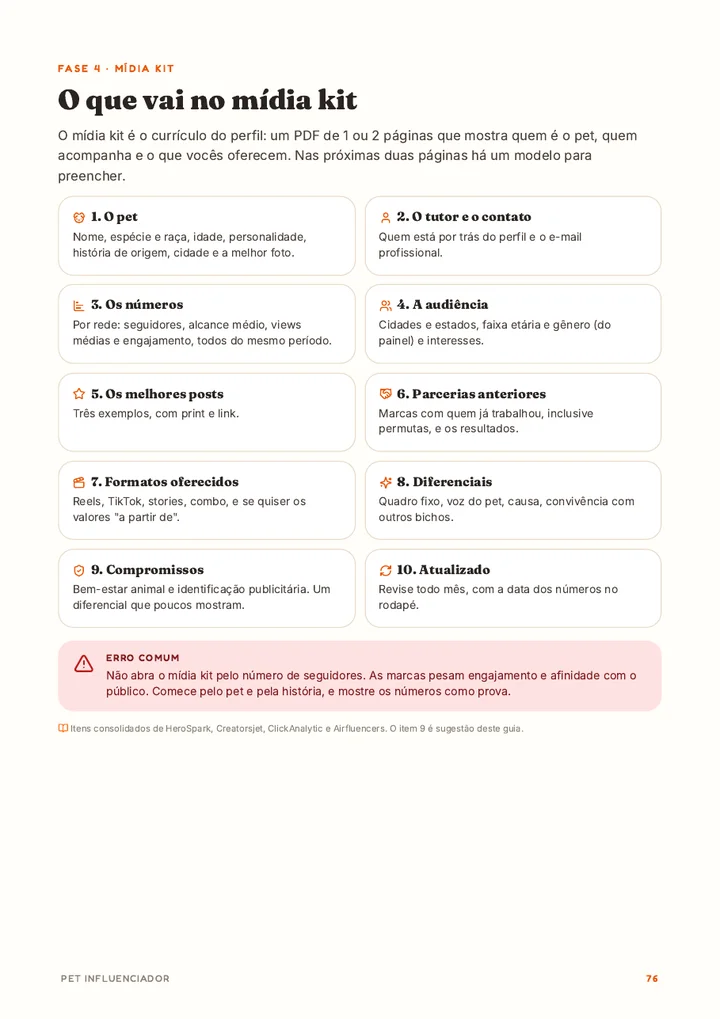
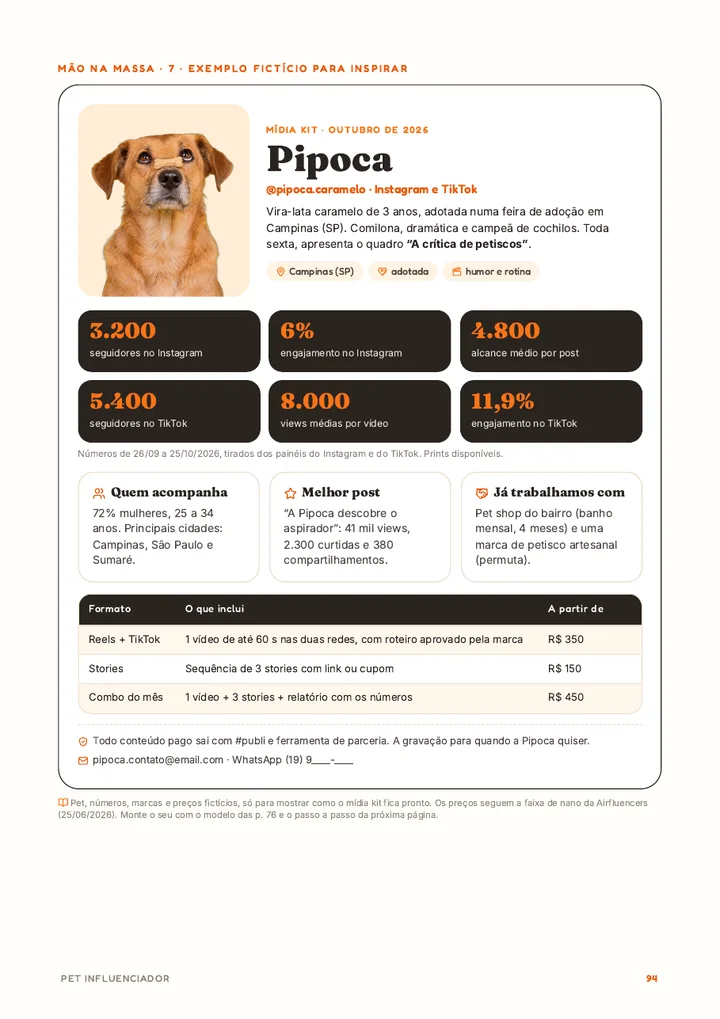
Pet Influenciador: 110 páginas e parte Mão na massa
Claude-Session: https://claude.ai/code/session_015DPV1uKuxt4KhrgCQWoJpN

Changed region(s): [[0.0611, 0.0608, 0.9167, 0.8214], [0.0611, 0.5172, 0.0917, 0.5476]]

diff --git a/src/lib/vendas/influenciador.ts b/src/lib/vendas/influenciador.ts
@@ -8,12 +8,12 @@ export const influenciador: PaginaVendas = {
       "O guia completo para transformar o perfil do seu cão ou gato num perfil profissional: 30 roteiros, 60 legendas, calendário de 2027, mídia kit, e-mails para marcas e as regras do CONAR. Com casos reais e os nichos além do humor.",
   },
   hero: {
-    eyebrow: "Guia completo · 97 páginas",
+    eyebrow: "Guia completo · 110 páginas",
     antes: "O seu pet já é uma estrela em casa. ",
     destaque: "Agora vamos montar o palco",
     depois: ".",
     lead: "O passo a passo completo para o perfil do seu cão ou gato ficar profissional, crescer com consistência e chegar até as marcas: da bio ao mídia kit, com roteiros, legendas e e-mails prontos.",
-    selos: ["Acesso imediato", "97 páginas", "Garantia de 7 dias"],
+    selos: ["Acesso imediato", "110 páginas", "Garantia de 7 dias"],
   },
   dores: {
     titulo: "Se você já pensou alguma destas coisas",
@@ -46,11 +46,12 @@ export const influenciador: PaginaVendas = {
       ["Conteúdo pronto", "30 roteiros, 50 ideias, 60 legendas e piadas, 30 ganchos, plano de 30 dias e datas comemorativas de 2027."],
       ["Crescimento", "As métricas que importam, collabs, comunidade e o que fazer quando o perfil não cresce."],
       ["Marcas", "Afiliados, plataformas, negócios locais, mídia kit para preencher, 5 e-mails prontos, preço e contrato."],
+      ["Mão na massa", "Toque por toque: como tirar os números do Instagram e do TikTok, a conta do engajamento, onde se cadastrar, mensagens para copiar e colar e o plano de 30 dias."],
       ["Regras e bem-estar", "CONAR, publi de ração e remédio, MEI, e o que nunca fazer com o seu pet por um vídeo."],
     ],
     paginas: [
       ["/produtos/influenciador-pag72.webp", "Os modelos de e-mail para marcas"],
-      ["/produtos/influenciador-pag70.webp", "O mídia kit para preencher"],
+      ["/produtos/influenciador-pag70.webp", "Um mídia kit pronto, de exemplo"],
     ],
   },
   metodo: {
@@ -88,11 +89,13 @@ export const influenciador: PaginaVendas = {
   },
   oferta: {
     itens: [
-      "Guia completo de 97 páginas",
+      "Guia completo de 110 páginas",
       "Casos reais de pets influenciadores do Brasil e de fora",
       "Além do humor: moda, culinária, viagem, educação, gatos e causa",
       "30 roteiros, 50 ideias, 60 legendas e 30 ganchos",
       "Calendário de datas comemorativas de 2027",
+      "Mão na massa: números, mídia kit pronto, cadastros e mensagens para copiar e colar",
+      "Os 5 jeitos de o TikTok pagar e os pets que já ganham lá",
       "Mídia kit para preencher e 5 e-mails para marcas",
       "Regras do CONAR, preço, contrato e bem-estar",
     ],
